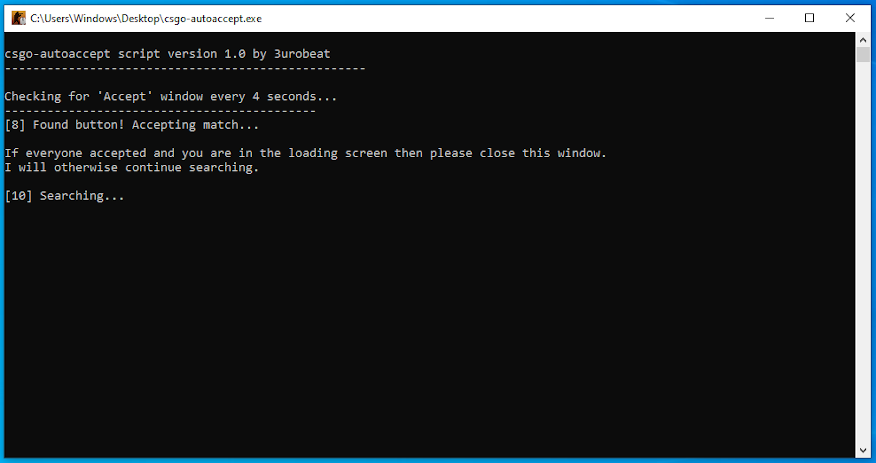
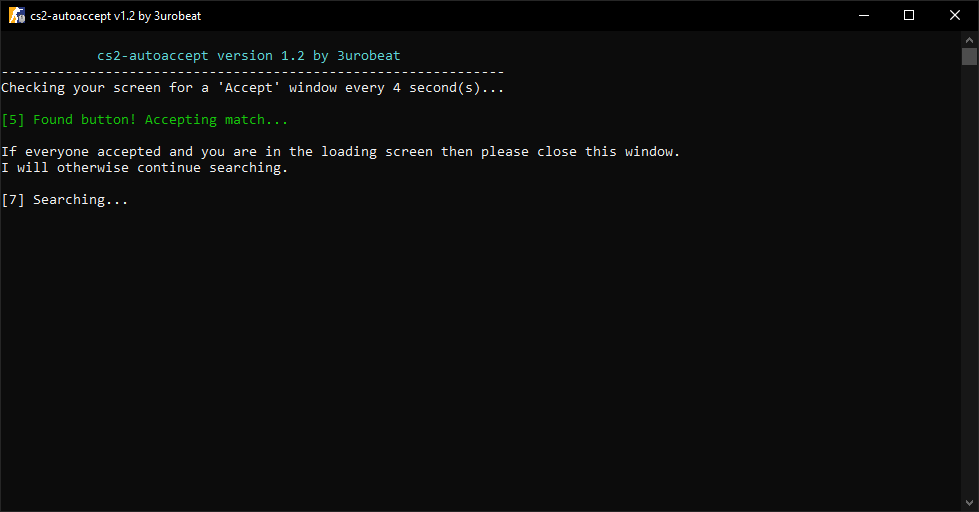
Update README and showcase picture

Changed region(s): [[0.0, 0.0, 1.0, 1.0]]

diff --git a/README.md b/README.md
@@ -1,35 +1,44 @@
-# csgo-autoaccept
-This C# script automatically accepts CS:GO matches for you by analyzing your screen every 4 seconds and moving your mouse when it detects the 'Accept' button.  
-Since this script does not interfere with any game files it should be completely VAC safe.  
+# cs2-autoaccept
+This C# script automatically accepts Counter-Strike 2 matches for you.  
+It does this by analyzing your screen every 4 seconds and moving and clicking with your mouse when it detects the 'Accept' button.  
+Since this script does not interfere with any game files and just takes screenshots of your display it is completely VAC safe.  
 
-This script is for Windows only. If you are on Linux see [my other repository for a Linux version.](https://github.com/3urobeat/csgo-autoaccept-cpp)  
+This script is for Windows only. If you are on Linux, please see [my other repository.](https://github.com/3urobeat/cs2-autoaccept-cpp)  
 
-![Screenshot](https://raw.githubusercontent.com/3urobeat/csgo-autoaccept/master/.github/img/showcase.png)  
+![Screenshot](https://raw.githubusercontent.com/3urobeat/cs2-autoaccept/master/.github/img/showcase.png)  
 
+&nbsp;
 
 ## Download
 **Easy way:**  
-Head over to the [release section](https://github.com/3urobeat/csgo-autoaccept/releases/latest) and download the latest `.exe`.  
+Head over to the [release section](https://github.com/3urobeat/cs2-autoaccept/releases/latest) and download the latest `.exe`.  
   
+> Be aware that the Windows Defender likes to throw false-positives. While testing, this `.exe` got flagged as a trojan multiple times even when building it on the very same device.  
   
-> Be aware that the Windows Defender likes to throw false-positives. While testing this `.exe` got flagged as a trojan multiple times even when building it directly on Windows.  
-  
-VirusTotal Scan: https://www.virustotal.com/gui/file/24b69361e5ec9ad580bf6bbbad5eed03938e0af6bbca00d3fbdfb706440758cc/detection  
+VirusTotal Scan: [Click](https://www.virustotal.com/gui/file-analysis/YjQ1YzcxMmZlYjE0N2EyMzM3YTU2NzY4MDJhN2Q2Zjk6MTY5OTcyMzI2Mg==/detection)  
 
+&nbsp;
 
-**Slightly harder way if you don't trust the exe compiled by me:**  
+**Slightly harder way if you want to compile this project yourself:**  
+Install Visual Studio with the .NET-Desktop-Development package.  
+Open the `cs2-autoaccept.sln` file and compile the project by selecting "Release" at the top and then hitting F6.  
+Your compiled .exe file will now be inside the `./bin/Release` folder. Copy it to anywhere you like.
 
-Make sure to have the latest .NET Core SDK installed: https://dotnet.microsoft.com/download/dotnet/5.0  
-With the SDK installed you can now compile this project yourself.  
-Take a look at this comment if you want to compile it without having an IDE like Visual Studio or MonoDevelop installed: https://stackoverflow.com/a/18286923  
-  
-  
+You can probably also compile this project without the full Visual Studio editor installed, but I don't know exactly how.  
+(I usually develop on Linux)
+
+&nbsp;
+
 ## Usage  
 Start the script by executing the `.exe`.  
 A terminal window will appear and the script will start scanning your screen every 4 seconds.  
-Open CS:GO and queue for a match. The script will automatically accept it for you.  
+Queue for a match in CS2 and the script will automatically accept it for you.  
   
-When you are in the loading screen you can close the terminal window.  
-If not everyone accepted just leave the script open and it will continue scanning.  
+Once you are in the loading screen, you can close the terminal window, it will otherwise continue searching.
 
-> The game must be on your Primary Display and focused. If you minimze the game the script won't work.  
+> The game must be on your **primary display** and be focused. If you minimze the game the script won't work.  
+> The script works in Windowed, as well as in Fullscreen and isn't affected by your brightness settings.
+
+&nbsp;
+
+Enjoy a toilet break while queueing!
